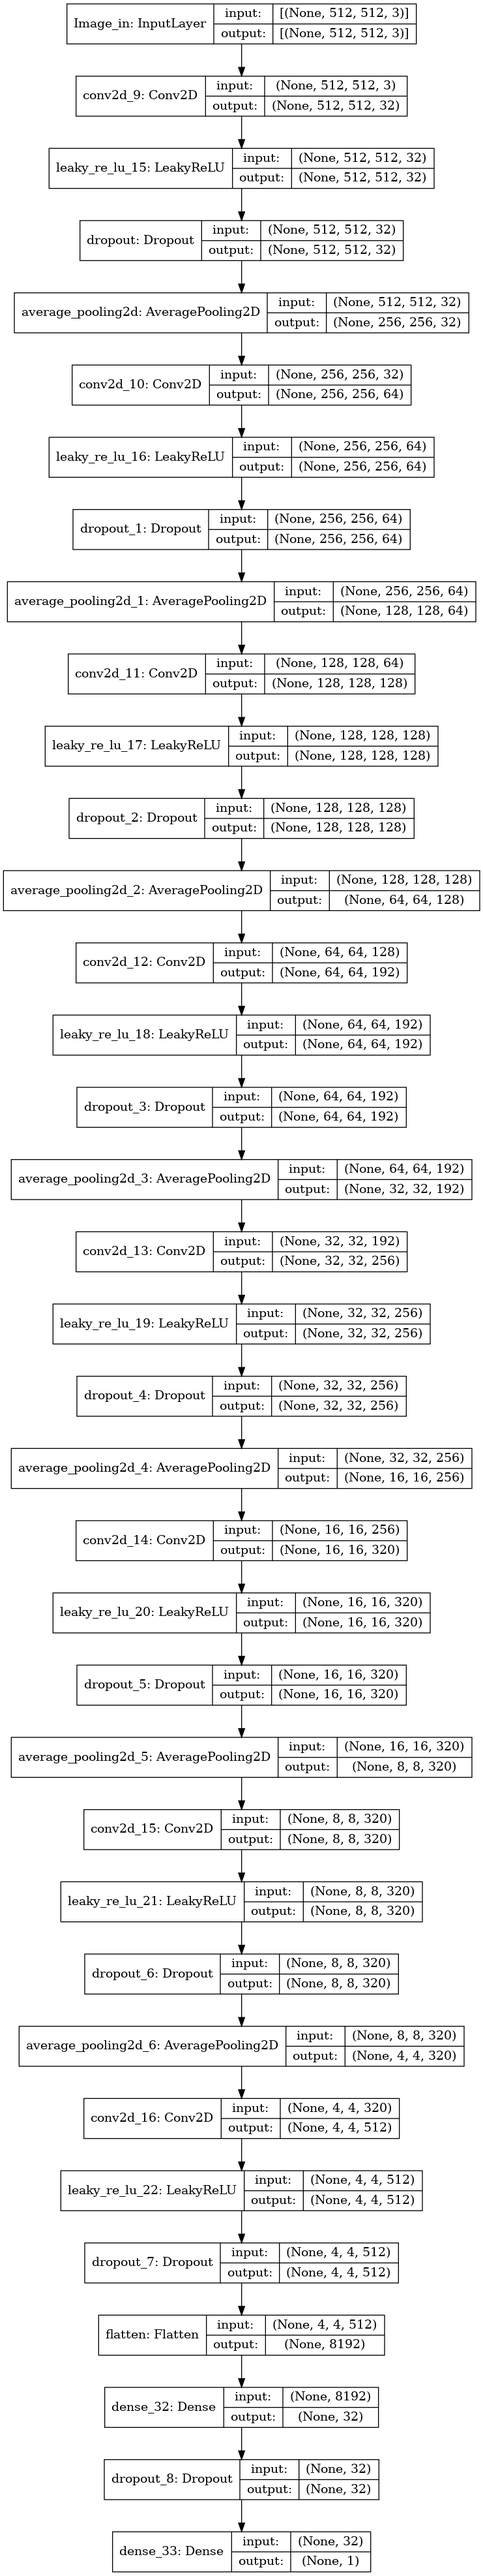
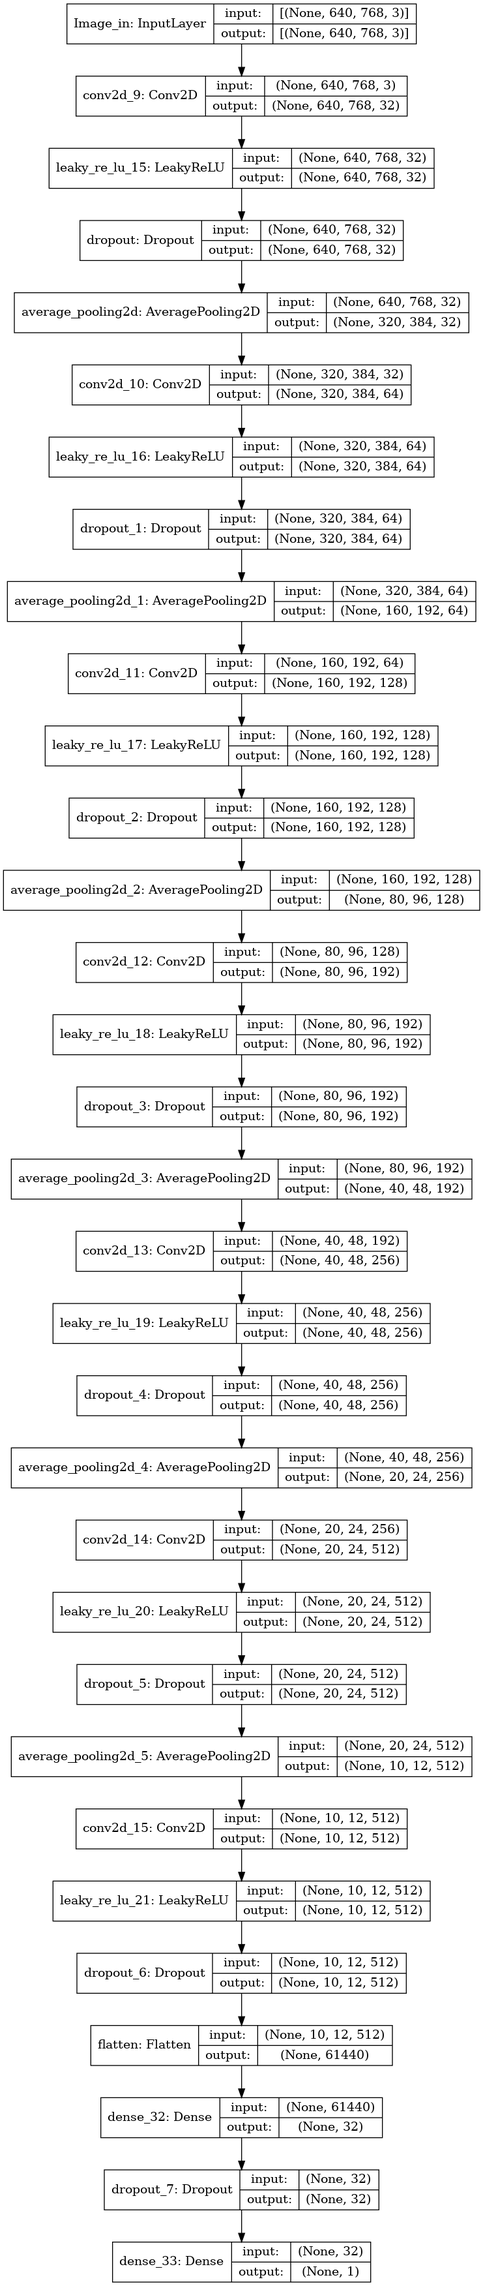
some parameter changes in train.py

Changed region(s): [[0.0621, 0.0, 1.0, 1.0]]

diff --git a/model/generator.py b/model/generator.py
@@ -64,7 +64,7 @@ def g_block(
 
     # Crop noise and scale using Dense layer
     noise = Lambda(crop_and_fit)([noise, x])
-    noise = Dense(filters,kernel_initializer='zeros')(noise)
+    noise = Dense(filters, kernel_initializer='zeros')(noise)
 
     out = Conv2D(
         filters, kernel_size,
@@ -117,35 +117,35 @@ def build_generator(latent_dim, image_size=(128, 128)) -> keras.Model:
     x = LeakyReLU(alpha=0.2)(x)
     x = Reshape((4, 4, latent_dim))(x)
 
-    #4x4
+    # 4x4
     x = g_block(x, filters=16*channel_factor, latent_vector=latent,
                 noise=noise_in, upsample=False)
 
-    #8x8
+    # 8x8
     x = g_block(x, filters=10*channel_factor,
                 latent_vector=latent, noise=noise_in)
 
-    #16x16
+    # 16x16
     x = g_block(x, filters=8*channel_factor,
                 latent_vector=latent, noise=noise_in)
 
-    #32x32
+    # 32x32
     x = g_block(x, filters=6*channel_factor,
                 latent_vector=latent, noise=noise_in)
 
-    #64x64
+    # 64x64
     x = g_block(x, filters=4*channel_factor,
                 latent_vector=latent, noise=noise_in)
-    
-    #128x128
+
+    # 128x128
     x = g_block(x, filters=2*channel_factor,
                 latent_vector=latent, noise=noise_in)
-    
-    #256x256
+
+    # 256x256
     x = g_block(x, filters=channel_factor,
                 latent_vector=latent, noise=noise_in)
 
-    #512x512
+    # 512x512
     x = g_block(x, filters=channel_factor,
                 latent_vector=latent, noise=noise_in)
 
@@ -156,13 +156,9 @@ def build_generator(latent_dim, image_size=(128, 128)) -> keras.Model:
     return Model(inputs=[latent_in, noise_in], outputs=fake_out, name="Generator_for_square")
 
 
-def build_generator_for_nonsquare(latent_dim: int, image_size: tuple = (320, 192)) -> keras.Model:
+def build_generator_for_nonsquare(latent_dim: int, image_size: tuple = (320, 192), h_factor: int = 5, w_factor: int = 3) -> keras.Model:
     if image_size[0] == image_size[1]:
         raise "input shape cannot be 1:1"
-
-    filters_factor = 2
-    h_factor = 5
-    w_factor = 3
 
     f = [image_size[0]//2 **
          x for x in range(1, int(np.math.log2(image_size[0]//h_factor))+1)]
@@ -212,7 +208,7 @@ def build_generator_for_nonsquare(latent_dim: int, image_size: tuple = (320, 192
 
     x = g_block(x, filters=channel_factor,
                 latent_vector=latent, noise=noise_in)
-    
+
     x = g_block(x, filters=channel_factor,
                 latent_vector=latent, noise=noise_in)
 

diff --git a/train.py b/train.py
@@ -98,9 +98,9 @@ def train(
     save_model_dir: str = "trained_model/",
     plots_dir: str = "loss_graph_dir/",
     sample_image_dir: str = "sample_art/",
-    batch_size: int = 8,
-    image_h: int = 512,
-    image_w: int = 512,
+    batch_size: int = 4,
+    image_h: int = 640,
+    image_w: int = 768,
     image_c: int = 3,
     latent_dim: int = 256,
     epoch: int = 300,
@@ -160,7 +160,9 @@ def train(
             # build for non square image
             g_model = build_generator_for_nonsquare(
                 latent_dim=latent_dim,
-                image_size=(image_h, image_w)
+                image_size=(image_h, image_w),
+                h_factor=5,
+                w_factor=6
             )
 
             c_model = build_critic_for_nonsquare(
@@ -199,7 +201,6 @@ def train(
 
     for e in range(epoch):
         for data in image_dataset:
-            print(f"Epoch: {e}")
             closs, gloss, gp = stylegan.train_step(data)
             step = step + 1
             if step % 50 == 0:
@@ -225,7 +226,8 @@ def train(
 
             if step % 200 == 0:
                 print("[Info] Plotting loss, Plotting results")
-                plotResults(g_model, latent_dim, image_h, image_w, step,sample_image_dir)
+                plotResults(g_model, latent_dim, image_h,
+                            image_w, step, sample_image_dir)
                 plotLoss(critic_losses, generator_losses,
                          gradient_panelties, step, plots_dir)
             if step % 10000 == 0 and step > 0:

diff --git a/dataset.py b/dataset.py
@@ -21,13 +21,16 @@ class TfdataPipeline:
         self.batch_size = batch_size
 
     def _load_image(self, image_path: str):
-        image = tf.io.read_file(image_path)
-        image = tf.io.decode_jpeg(image,channels=3)
-        image = tf.image.resize(
-            image, (self.IMG_H, self.IMG_W), method=ResizeMethod.BICUBIC)
-        image = tf.cast(image, tf.float32)
-        # scale the pixel value between -1 to 1
-        image = (image-127.5)/127.5
+        try:
+            image = tf.io.read_file(image_path)
+            image = tf.io.decode_jpeg(image,channels=3,try_recover_truncated=True)
+            image = tf.image.resize(
+                image, (self.IMG_H, self.IMG_W), method=ResizeMethod.BICUBIC)
+            image = tf.cast(image, tf.float32)
+            # scale the pixel value between -1 to 1
+            image = (image-127.5)/127.5
+        except Exception:
+            pass
         return image
 
     def tf_dataset(self, images_path: str):
